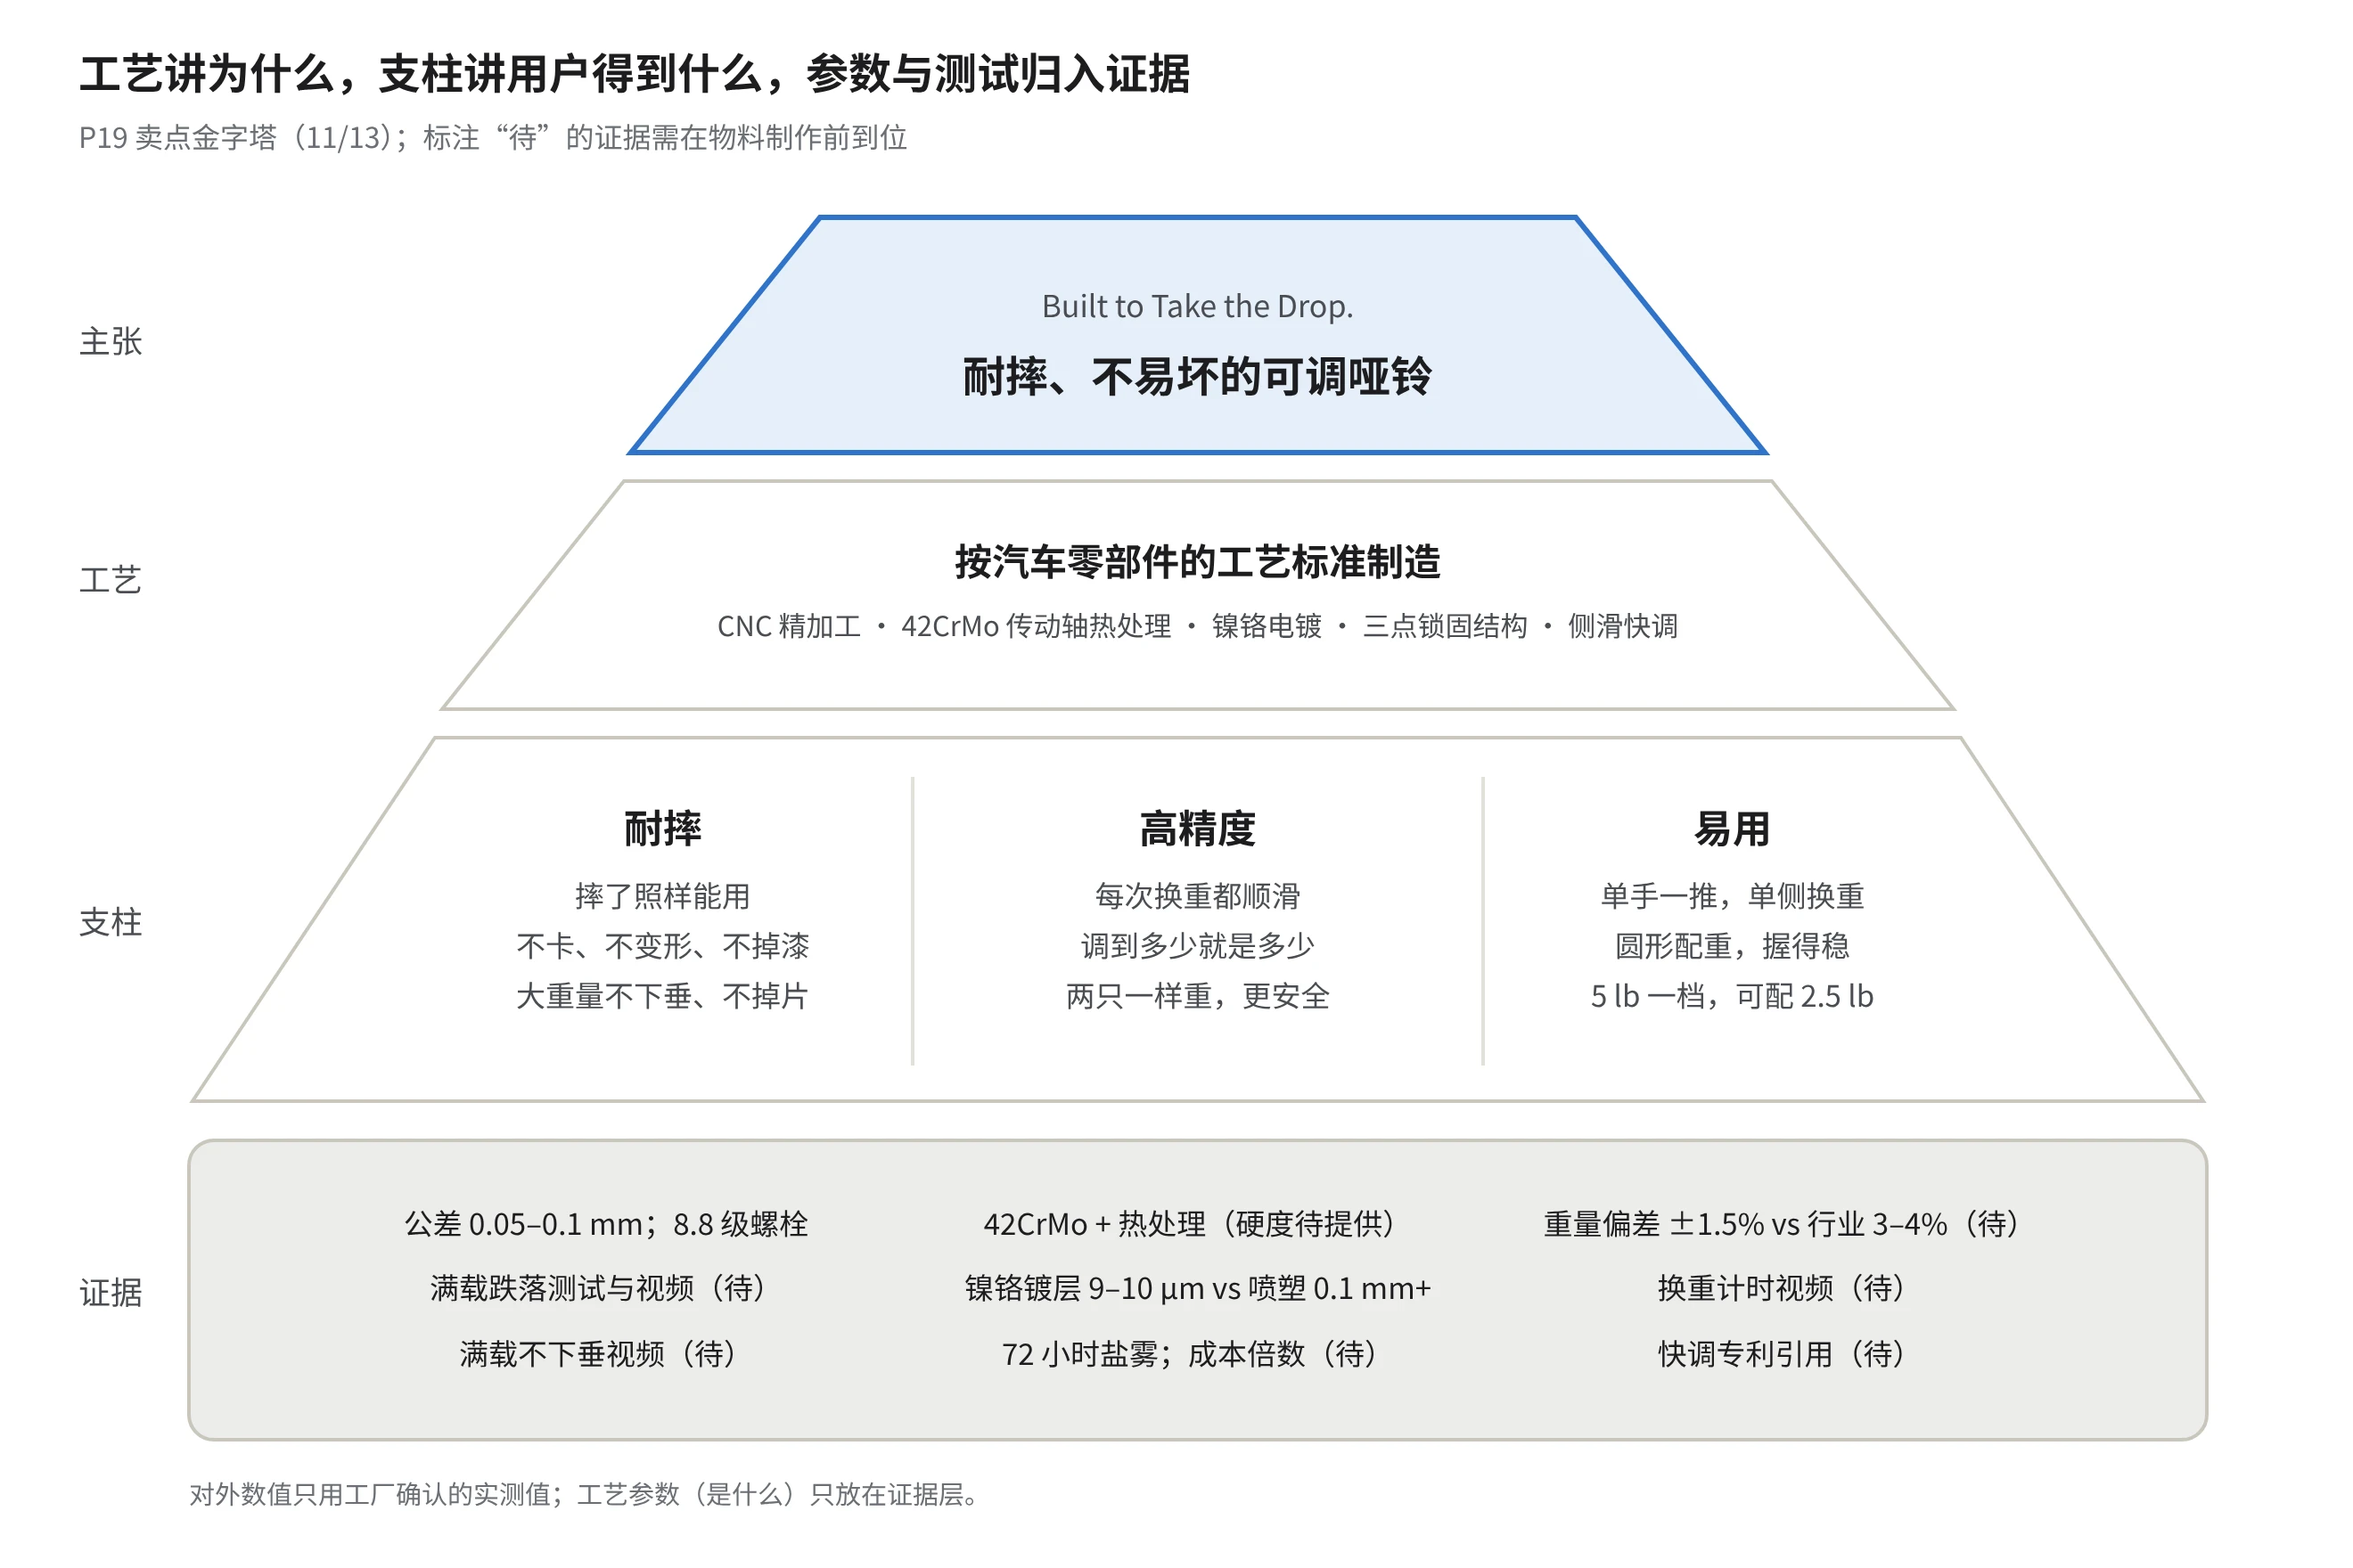
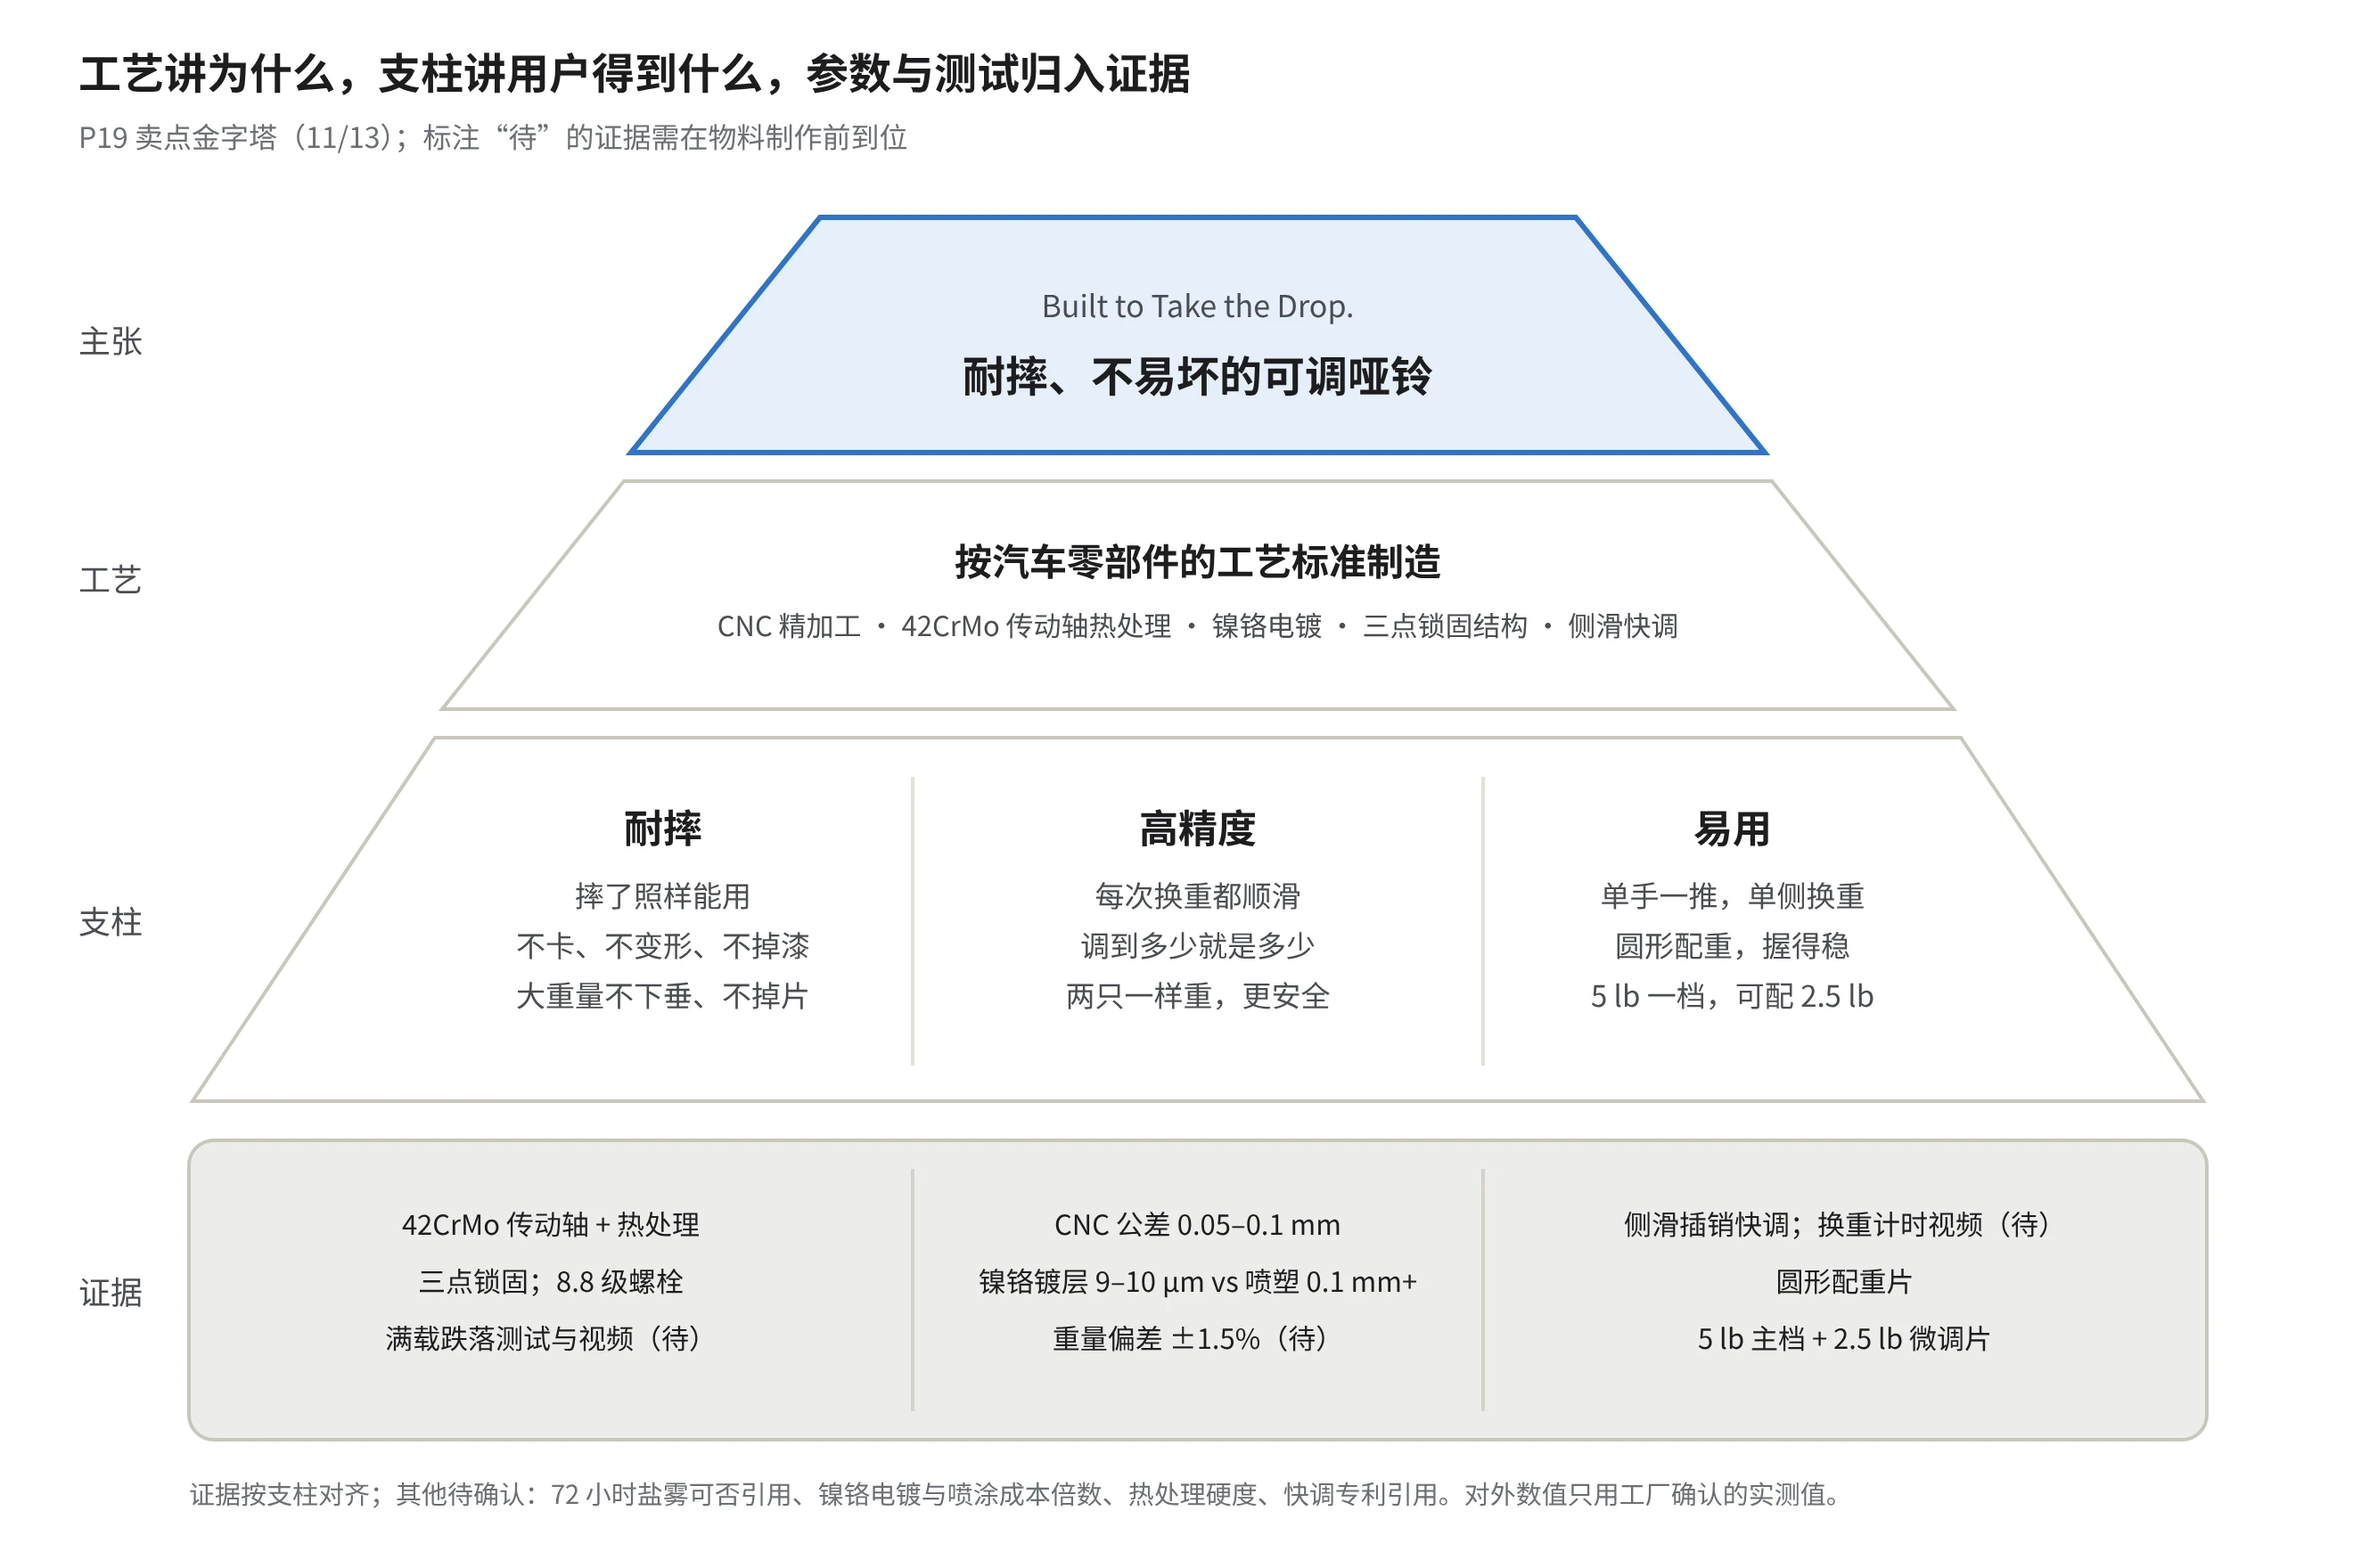
Selling-point section: one master table; pyramid evidence aligned by pillar
Claude-Session: https://claude.ai/code/session_01RNRjNYdB2DmXKuzbHkJAw4

diff --git a/product.html b/product.html
@@ -75,7 +75,7 @@ id="toc-六explore-教育页与拍摄清单">六、Explore
 <div class="sumbox" id="chglog"><p><strong>11 月 12 日二审修改记录</strong></p>
 <ol>
 <li><a href="#c1">目标人群</a>：“两年健身房会费”改为仅作内部价格定位；新增两个用户价值点（一整套哑铃的成本与空间、居家训练是“家庭作业”）。</li>
-<li><a href="#c2">卖点金字塔</a>：分为三层：工艺层只讲“为什么这样做”，支柱层只讲用户得到什么，工艺参数与测试归入证据层；握得稳、档位细并入“易用”；电镀明确为镍铬电镀。</li>
+<li><a href="#c2">卖点金字塔</a>：金字塔图分为主张、工艺、支柱、证据四层；下方用一张总表讲完工艺（为什么）、支柱（用户得到什么）与证据（参数与测试）；握得稳、档位细并入“易用”；电镀明确为镍铬电镀。</li>
 <li><a href="#c2">电镀（镍铬）</a>：重写逻辑，目的为防锈，同时实现耐腐蚀、耐摔、精度可控、美观四项功能；并入工艺表。</li>
 <li><a href="#c2">新增证据</a>：整只重量偏差 ±1.5%（行业常见 3–4%）、镍铬电镀与喷涂成本倍数，均待工厂确认。</li>
 <li><a href="#c5">差异化定位</a>：明确与 Snode、Nike、REP 的主要差别在电镀；三根支撑杆与 REP 相同，不作独有卖点；补充对 Snode 的底座工艺优势；表述统一为“按汽车零部件的工艺标准制造”；修复每磅价格显示错误。</li>
@@ -352,37 +352,20 @@ alt="KV 草稿：AI 生成版本（不可对外使用）" /></p>
 <p><img src="assets/selling-point-pyramid.webp"
 alt="P19 卖点金字塔（11/12 二审后）" /></p>
 <p>上层回答“为什么选”，中层回答“为什么信”，底层为可公开的证据；所有物料只从这里取说法。</p>
-<div id="c2"><p><strong>结构：工艺是因，支柱是果，证据在底</strong></p>
-<p>产品主张为“耐摔、不易坏的可调哑铃”。信任支点“按汽车零部件的工艺标准制造”由五项工艺组成：工艺层只讲“为什么这样做”，每项只讲一次；支柱层只讲用户得到什么；工艺的具体参数（是什么）与测试、视频一起归入证据层。一项工艺可以同时支撑多个支柱。</p></div>
-<p><strong>第一层：五项工艺（为什么这样做）</strong></p>
+<div id="c2"><p><strong>工艺、支柱与证据总表</strong></p>
+<p>产品主张为“耐摔、不易坏的可调哑铃”，信任支点为“按汽车零部件的工艺标准制造”。下表按工艺逐行展开：每项工艺只讲一次“为什么这样做”，“支柱”列标明它支撑耐摔、高精度还是易用，“用户得到什么”为对外语言，工艺参数与测试统一放在证据列。</p></div>
 <div class="tw"><table>
-<thead><tr class="header"><th>工艺</th><th>为什么这样做</th><th>耐摔</th><th>高精度</th><th>易用</th></tr></thead>
+<thead><tr class="header"><th>工艺</th><th>为什么这样做</th><th>支柱</th><th>用户得到什么（对外语言）</th><th>证据：工艺参数</th><th>证据：测试与素材（状态）</th></tr></thead>
 <tbody>
-<tr><td>CNC 精加工</td><td>压铸开模尺寸一致性差；精加工让件与件配合精准。0.1 mm 为普通达标水平，做到 0.05 mm 需频繁更换刀具，投入设备与人力</td><td>✓</td><td>✓</td><td></td></tr>
-<tr><td>42CrMo 传动轴 + 热处理</td><td>汽车传动部件常用材料；热处理后强度与韧性更高，受冲击不易变形</td><td>✓</td><td></td><td></td></tr>
-<tr><td>表面镍铬电镀</td><td>表面处理的根本目的是防锈。镍铬电镀同时做到四点：耐腐蚀；附着力强、磕碰不掉漆；厚度可控、不破坏机加工精度；外观细腻。代价是成本为喷涂的数倍</td><td>✓</td><td>✓</td><td></td></tr>
-<tr><td>三点锁固结构</td><td>结构决定受力与跌落后是否变形、下垂、掉片</td><td>✓</td><td></td><td></td></tr>
-<tr><td>侧滑插销快调（自研）与人体工学设计</td><td>旋转式须放回底座、REP 需两侧各操作一次，MERACH 投入研发解决调节问题；圆形配重让重心居中；5 lb 主档 + 微调片满足小幅加重</td><td></td><td></td><td>✓</td></tr>
-</tbody></table></div>
-<p><strong>第二层：三支柱（用户得到什么）</strong></p>
-<div class="tw"><table>
-<thead><tr class="header"><th>支柱</th><th>用户得到什么（对外语言）</th><th>由哪些工艺实现</th></tr></thead>
-<tbody>
-<tr><td><strong>耐摔</strong></td><td>不小心摔了照样能用：不卡、不变形、不掉漆，用得更久；大重量不下垂、不掉片</td><td>CNC 精加工、42CrMo 传动轴 + 热处理、表面镍铬电镀、三点锁固结构</td></tr>
-<tr><td><strong>高精度</strong></td><td>每次换重都顺滑；调到多少就是多少，两只一样重，训练更平衡、更安全</td><td>CNC 精加工、表面镍铬电镀</td></tr>
-<tr><td><strong>易用</strong></td><td>单手一推，单侧一次换重，递减组不中断；握得稳，重心居中不晃不转；档位细，5 lb 一档，加配微调片可到 2.5 lb</td><td>侧滑插销快调、圆形配重、5 lb 档位 + 微调片</td></tr>
-</tbody></table></div>
-<p><strong>第三层：证据（工艺是什么 + 测试与素材）</strong></p>
-<div class="tw"><table>
-<thead><tr class="header"><th>对应</th><th>工艺参数（是什么）</th><th>测试与素材</th><th>状态</th></tr></thead>
-<tbody>
-<tr><td>CNC 精加工</td><td>关键件 CNC 加工，非压铸开模；公差 0.05–0.1 mm；工序：下料—开平—割板—粗车—CNC—精车—电镀—检验</td><td>车间视频</td><td>参数已确认；视频待拍</td></tr>
-<tr><td>42CrMo 传动轴 + 热处理</td><td>传动轴 42CrMo 合金钢，经热处理，表面镀硬铬</td><td>硬度数值；跌落后拆检</td><td>材质、热处理已确认；硬度待提供</td></tr>
-<tr><td>表面镍铬电镀</td><td>配重片表面镍铬电镀，镀层 9–10 μm（约 1/10 张 A4 纸）；喷塑 0.1 mm 以上（约一张 A4 纸）</td><td>72 小时盐雾测试；镍铬电镀与喷涂成本倍数</td><td>镀层已确认；盐雾待确认可引用；成本倍数待工厂确认（按实测对外）</td></tr>
-<tr><td>三点锁固结构</td><td>三点锁固 + 中间横杆 + 两根支撑杆；8.8 级螺栓</td><td>满载不下垂视频</td><td>螺栓等级已确认；视频待拍</td></tr>
-<tr><td>侧滑快调与人体工学</td><td>侧边滑动选择器，插销锁定所选配重片；圆形配重；5 lb 主档，定制 2.5 lb 微调片（另配）</td><td>换重计时视频；专利</td><td>视频待拍；专利能否引用待确认</td></tr>
-<tr><td>耐摔（整体）</td><td>—</td><td>满载跌落测试报告与视频；VOC 差评 TOP1“调节困难”92 次</td><td>跌落测试待报告</td></tr>
-<tr><td>高精度（整体）</td><td>整只哑铃重量偏差 ±1.5%，行业常见 3–4%</td><td>重量偏差抽检</td><td>待工厂确认</td></tr>
+<tr><td>CNC 精加工</td><td>压铸开模尺寸一致性差；精加工让件与件配合精准。0.1 mm 为普通达标水平，做到 0.05 mm 需频繁更换刀具，投入设备与人力</td><td>耐摔<br>高精度</td><td>每次换重都顺滑；摔过之后也不卡</td><td>关键件 CNC 加工，非压铸开模；公差 0.05–0.1 mm；工序：下料—开平—割板—粗车—CNC—精车—电镀—检验</td><td>参数已确认；车间视频（待拍）</td></tr>
+<tr><td>42CrMo 传动轴 + 热处理</td><td>汽车传动部件常用材料；热处理后强度与韧性更高，受冲击不易变形</td><td>耐摔</td><td>核心部件摔后不变形，用得更久</td><td>传动轴 42CrMo 合金钢，经热处理，表面镀硬铬</td><td>材质、热处理已确认；硬度数值（待提供）</td></tr>
+<tr><td>表面镍铬电镀</td><td>表面处理的根本目的是防锈。镍铬电镀同时做到四点：耐腐蚀；附着力强、磕碰不掉漆；厚度可控、不破坏机加工精度；外观细腻。代价是成本为喷涂的数倍</td><td>耐摔<br>高精度</td><td>磕碰不掉漆、不生锈，几年后依然如新；精度不打折；看着舒服</td><td>镀层 9–10 μm（约 1/10 张 A4 纸）；喷塑 0.1 mm 以上（约一张 A4 纸）</td><td>镀层已确认；72 小时盐雾（待确认可引用）；与喷涂成本倍数（待工厂确认，按实测对外）</td></tr>
+<tr><td>三点锁固结构</td><td>结构决定受力与跌落后是否变形、下垂、掉片</td><td>耐摔</td><td>大重量不下垂、不掉片</td><td>三点锁固 + 中间横杆 + 两根支撑杆；8.8 级螺栓</td><td>螺栓等级已确认；满载不下垂视频（待拍）</td></tr>
+<tr><td>侧滑插销快调（自研）</td><td>旋转式须放回底座；REP 需两侧各操作一次。MERACH 投入研发解决调节问题</td><td>易用</td><td>单手一推，单侧一次换重；脱离底座，递减组不中断</td><td>侧边滑动选择器，插销锁定所选配重片</td><td>VOC 差评 TOP1“调节困难”92 次（已有）；换重计时视频（待拍）；专利能否引用（待确认）</td></tr>
+<tr><td>圆形配重</td><td>圆形重心居中，比多边形更对称</td><td>易用</td><td>握得稳，不晃不转</td><td>圆形配重片</td><td>测评博主反馈（已有）</td></tr>
+<tr><td>5 lb 档位 + 微调片</td><td>5 lb 主档覆盖常用重量；微调片满足小幅加重</td><td>易用</td><td>档位细，5 lb 一档，加配微调片可到 2.5 lb</td><td>5 lb 主档；定制 2.5 lb 微调片（另配）</td><td>微调片配置与售价（待定）</td></tr>
+<tr><td><em>整体验证</em></td><td>—</td><td>耐摔</td><td>不小心摔了照样能用</td><td>—</td><td>满载跌落测试报告与视频（待）</td></tr>
+<tr><td><em>整体验证</em></td><td>—</td><td>高精度</td><td>调到多少就是多少，两只一样重</td><td>整只哑铃重量偏差 ±1.5%，行业常见 3–4%</td><td>重量偏差抽检（待工厂确认）</td></tr>
 </tbody></table></div>
 <ul>
 <li>先讲用户得到什么，再讲为什么能做到；“42CrMo”“0.05 mm”作为证据，不直接做卖点标题。</li>
